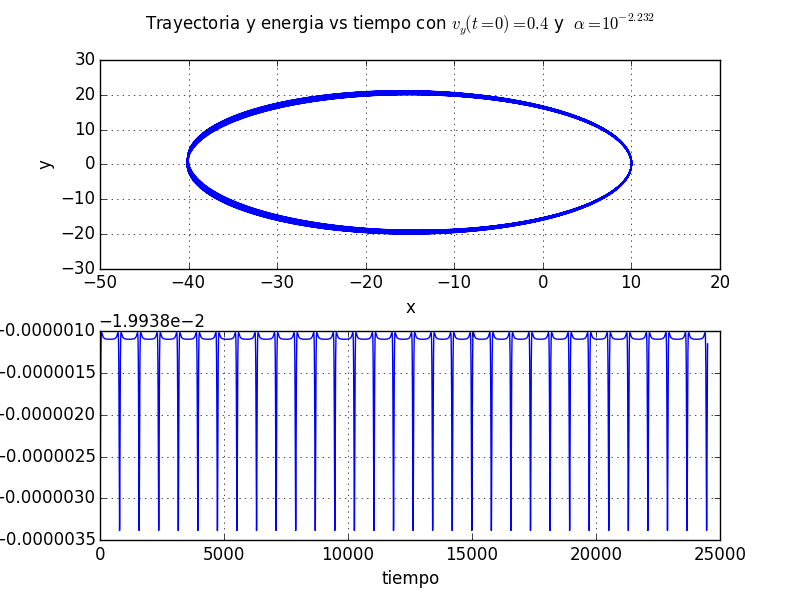
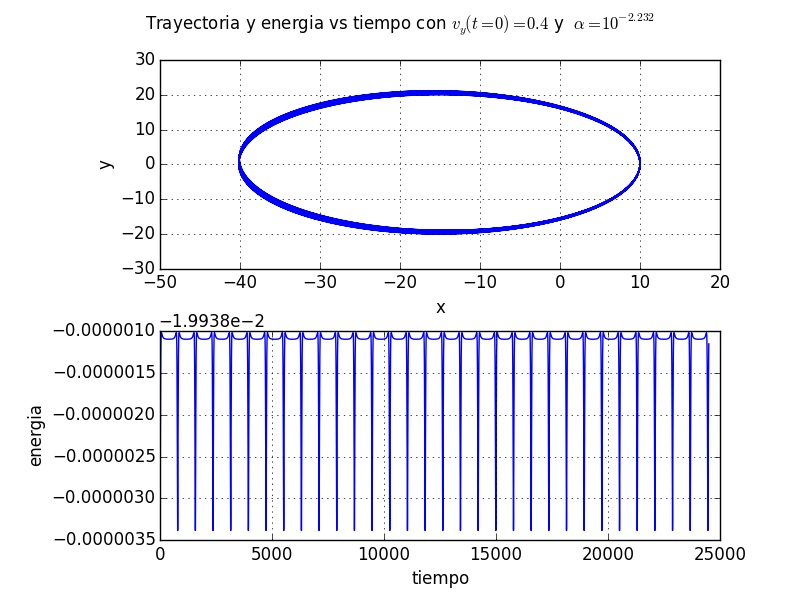
se agregan comentarios en scripts

diff --git a/solucion_usando_verlet.py b/solucion_usando_verlet.py
@@ -1,3 +1,11 @@
+'''
+Este script utiliza la clase planeta para integrar la trayectoria de
+aproximadamente 5 orbitas con el metodo de verlet, graficando la trayectoria
+y la energia vs tiempo en cada momento. Grafica dos veces energia vs tiempo
+con el fin de dejarlo en dos escalas: una de cerca para ver a forma de la
+funcion y otra mas de lejos para poder comparar con otros metodos menos
+eficientes. Utiliza alpha=0 en el potencial.
+'''
 from planeta import Planeta
 import numpy as np
 import matplotlib.pyplot as plt
@@ -7,9 +15,9 @@ p = Planeta(condicion_inicial)
 
 N_steps = 8000
 dt=4000./N_steps
-#escogemos hasta 2000 para comparar todas las energias hasta el mismo tiempo
-t1=np.linspace(0,4000,N_steps)
-t2=np.linspace(0,4000,N_steps)
+
+t=np.linspace(0,4000,N_steps)
+
 #creamos los arrays en que se guardara la informacion
 x= np.zeros(N_steps)
 y= np.zeros(N_steps)
@@ -19,7 +27,6 @@ energia = np.zeros(N_steps)
 
 x[0]= 10
 y[0]= 0
-
 energia[0]=p.energia_actual
 
 
@@ -37,6 +44,7 @@ fig.clf()
 ax1 = fig.add_subplot(311)
 plt.suptitle('Trayectoria y energia vs tiempo con $v_{y}(t=0)=0.4$ y  ' r'$\alpha=0$')
 fig.subplots_adjust(hspace=.3)
+
 ax1.plot(x,y)
 ax1.set_xlim(-45,15)
 ax1.grid(True)
@@ -44,15 +52,14 @@ ax1.set_xlabel('x')
 ax1.set_ylabel('y')
 
 ax2 = fig.add_subplot(312)
-ax2.plot(t1,energia)
+ax2.plot(t,energia)
 ax2.grid(True)
 ax2.set_xlabel('tiempo')
 ax2.set_ylabel('energia')
-
 fig.subplots_adjust(hspace=.5)
 
 ax3 = fig.add_subplot(313)
-ax3.plot(t2,energia)
+ax3.plot(t,energia)
 ax3.grid(True)
 ax3.set_xlabel('tiempo')
 ax3.set_ylabel('energia')

diff --git a/solucion_usando_euler.py b/solucion_usando_euler.py
@@ -1,5 +1,11 @@
 #!/usr/bin/env python
 # -*- coding: utf-8 -*-
+'''
+Este script utiliza la clase planeta para integrar la trayectoria de
+aproximadamente 5 orbitas con el metodo de euler explicito, graficando la
+trayectoria y la energia vs tiempo en cada momento. Utiliza alpha=0 en el
+potencial.
+'''
 
 from planeta import Planeta
 import numpy as np
@@ -9,22 +15,18 @@ condicion_inicial = [10, 0, 0, 0.4]
 p = Planeta(condicion_inicial)
 
 
-
 N_steps = 100000
 dt=4000./N_steps
-#escogemos hasta 2000 para comparar todas las energias hasta el mismo tiempo
-
 t=np.linspace(0,4000,N_steps)
+
 #creamos los arrays en que se guardara la informacion
 x= np.zeros(N_steps)
 y= np.zeros(N_steps)
 energia = np.zeros(N_steps)
 
-
 x[0]= 10
 y[0]= 0
 energia[0]=p.energia_actual
-
 
 for i in range(1, N_steps):
     p.avanza_euler(dt)
@@ -36,7 +38,6 @@ for i in range(1, N_steps):
 fig = plt.figure(1)
 fig.clf()
 
-
 ax1 = fig.add_subplot(211)
 plt.suptitle('Trayectoria y energia vs tiempo con $v_{y}(t=0)=0.4$ y  ' r'$\alpha=0$')
 fig.subplots_adjust(hspace=.3)
@@ -44,13 +45,11 @@ ax1.plot(x,y)
 ax1.grid(True)
 ax1.set_xlabel('x')
 ax1.set_ylabel('y')
-#plt.suptitle('Energia vs tiempo')
 ax2 = fig.add_subplot(212)
 ax2.plot(t,energia)
 ax2.grid(True)
 ax2.set_xlabel('tiempo')
 ax2.set_ylabel('energia')
-
 
 
 plt.draw()

diff --git a/solucion_usando_rk4.py b/solucion_usando_rk4.py
@@ -1,3 +1,11 @@
+'''
+Este script utiliza la clase planeta para integrar la trayectoria de
+aproximadamente 5 orbitas con el metodo de runge-kutta 4, graficando la
+trayectoria y la energia vs tiempo en cada momento. Grafica dos veces energia
+vs tiempo con el fin de dejarlo en dos escalas: una de cerca para ver a forma
+de la funcion y otra mas de lejos para poder comparar con otros metodos menos
+eficientes. Utiliza alpha=0 en el potencial.
+'''
 from planeta import Planeta
 import numpy as np
 import matplotlib.pyplot as plt
@@ -5,13 +13,12 @@ import matplotlib.pyplot as plt
 condicion_inicial = [10, 0, 0, 0.4]
 p = Planeta(condicion_inicial)
 
-
 N_steps = 4000
 dt=4000./N_steps
-t1=np.linspace(0,4000,N_steps)
-t2=np.linspace(0,4000,N_steps)
+t=np.linspace(0,4000,N_steps)
 
-#800 y 700
+
+
 #creamos los arrays en que se guardara la informacion
 x= np.zeros(N_steps)
 y= np.zeros(N_steps)
@@ -42,15 +49,14 @@ ax1.set_xlabel('x')
 ax1.set_ylabel('y')
 
 ax2 = fig.add_subplot(312)
-ax2.plot(t1,energia)
+ax2.plot(t,energia)
 ax2.grid(True)
 ax2.set_xlabel('tiempo')
 ax2.set_ylabel('energia')
-
 fig.subplots_adjust(hspace=.5)
 
 ax3 = fig.add_subplot(313)
-ax3.plot(t2,energia)
+ax3.plot(t,energia)
 ax3.grid(True)
 ax3.set_xlabel('tiempo')
 ax3.set_ylabel('energia')

diff --git a/alpha_distinto_de_cero.py b/alpha_distinto_de_cero.py
@@ -1,15 +1,20 @@
+'''
+Este script utiliza la clase planeta para integrar la trayectoria de
+aproximadamente 30 orbitas con el metodo de verlet, graficando la
+trayectoria y la energia vs tiempo en cada momento. Utiliza alpha=10^(-2.323)
+ en el potencial.
+'''
 from planeta import Planeta
 import numpy as np
 import matplotlib.pyplot as plt
 
 condicion_inicial = [10, 0, 0, 0.4]
 p = Planeta(condicion_inicial, 10**(-2.232))#RUT=18.769.232-6
-#p = Planeta(condicion_inicial)
 
 N_steps = 490*np.int(1e2)
 dt=24500./N_steps
 t=np.linspace(0,24500,N_steps)
-#creamos los arrays en que se guardara la informacion
+
 x= np.zeros(N_steps)
 y= np.zeros(N_steps)
 energia = np.zeros(N_steps)
@@ -35,6 +40,8 @@ ax1.plot(x,y)
 ax1.grid(True)
 ax1.set_xlabel('x')
 ax1.set_ylabel('y')
+fig.subplots_adjust(left=0.2)
+
 ax2 = fig.add_subplot(212)
 ax2.plot(t,energia)
 ax2.grid(True)
@@ -79,7 +86,6 @@ for velocidad in velocidad_angular:
 velocidad_angular_promedio=suma_velocidades_angular/30.
 
 print velocidad_angular_promedio
-
 
 
 plt.draw()

diff --git a/planeta.py b/planeta.py
@@ -3,7 +3,11 @@
 
 class Planeta(object):
     '''
-    Complete el docstring.
+    Esta clase permite definir un objeto como un planeta con masa=1 y
+    condiciones iniciales dadas por el usuario, bajo un potencial gravitacional
+    relativista.
+    El objeto planeta puede avanzar un paso con metodos como runge-kutta,
+    verlet y euler explicito, guardando posiciones, velocidades y energia.
     '''
 
     def __init__(self, condicion_inicial, alpha=0):
